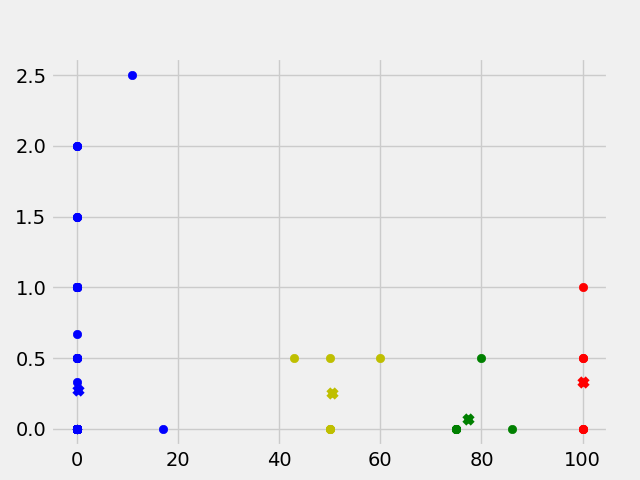
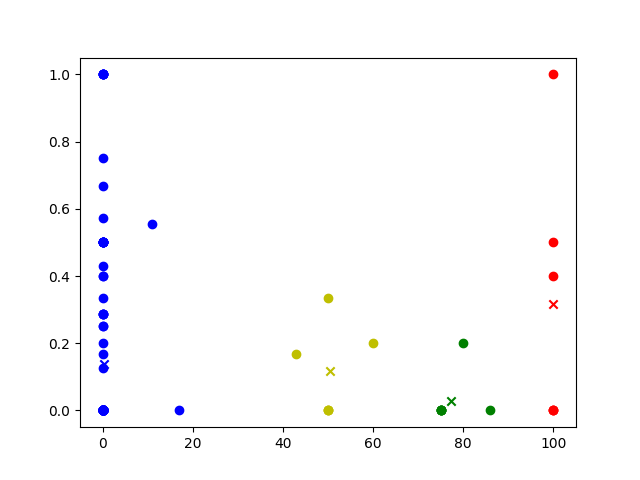
Fin définitive

diff --git a/clustering.py b/clustering.py
@@ -9,17 +9,18 @@ from sklearn.metrics import silhouette_score
 def getDataClustering ():
     vecteur = []
 
-    fichier_vm = m.lectureJson("avancement.json")
-    for i in fichier_vm:
+    fichier_av = m.lectureJson("avancement.json")
+    for user in fichier_av:
         vecteurPersonne = []
         nbSeance = 0
         cptRef = 0
         cptDev = 0
         cptDebug = 0
         cptEnd = 0
-        cptProbleme = 0
         tauxDeResussite = 0
-        for j in i['seance']:
+        difficulteSeance = 0
+        for j in user['seance']:
+            cptProbleme = 0
             #Indicateur : nombre séance
             nbSeance+=1
             #Indicateur : taux de réussite
@@ -37,25 +38,32 @@ def getDataClustering ():
                     cptDebug += 1
                 if o['error'] == 'probleme':
                     cptProbleme += 1
+            # Indicateur : élève en difficulté
+            if cptProbleme >= 1:
+                difficulteSeance += 1
+
         if nbSeance == 0 :
             nbSeance = 1
+        moyRef = cptRef/nbSeance
+        moyDev = cptDev/nbSeance
+        moyDebug = cptDebug/nbSeance
+        moyEnd = cptEnd/nbSeance
+        nbStatutMoy = moyRef + moyDev + moyDebug + moyEnd
+        if nbStatutMoy == 0 :
+            nbStatutMoy = 1
         #Ajout des indicateurs dans le vecteur de l'utiilisateur
         vecteurPersonne.append(tauxDeResussite)
-        vecteurPersonne.append(cptRef/nbSeance)
-        vecteurPersonne.append(cptDev/nbSeance)
-        vecteurPersonne.append(cptDebug/nbSeance)
-        vecteurPersonne.append(cptEnd/nbSeance)
+        vecteurPersonne.append(moyRef/nbStatutMoy)
+        vecteurPersonne.append(moyDev/nbStatutMoy)
+        vecteurPersonne.append(moyDebug/nbStatutMoy)
+        vecteurPersonne.append(moyEnd/nbStatutMoy)
+        vecteurPersonne.append(difficulteSeance/nbSeance)
         vecteurPersonne.append(nbSeance)
-        #Indicateur : élève en difficulté
-        if cptProbleme >= 1:
-            error = 1
-        else:
-            error = 0
-        vecteurPersonne.append(error)
         #Ajout du vecteur de l'utilisateur dans le vecteur final
         vecteur.append(vecteurPersonne)
 
     data = np.array(vecteur)
+    print(data)
     return data
 
 #Récupère le nombre de cluster le plus adaptés aux donnés (score silhouetteà
@@ -75,9 +83,10 @@ def getNbCluster (data) :
         silhouette_coefficients.append(score)
     #print(silhouette_coefficients)
     nbCluster = silhouette_coefficients.index(max(silhouette_coefficients))+2
+    print(nbCluster)
 
     #Affichage du score silhouette
-    plt.style.use("fivethirtyeight")
+    #plt.style.use("fivethirtyeight")
     plt.plot(range(2, 11), silhouette_coefficients)
     plt.xticks(range(2, 11))
     plt.xlabel("Number of Clusters")
